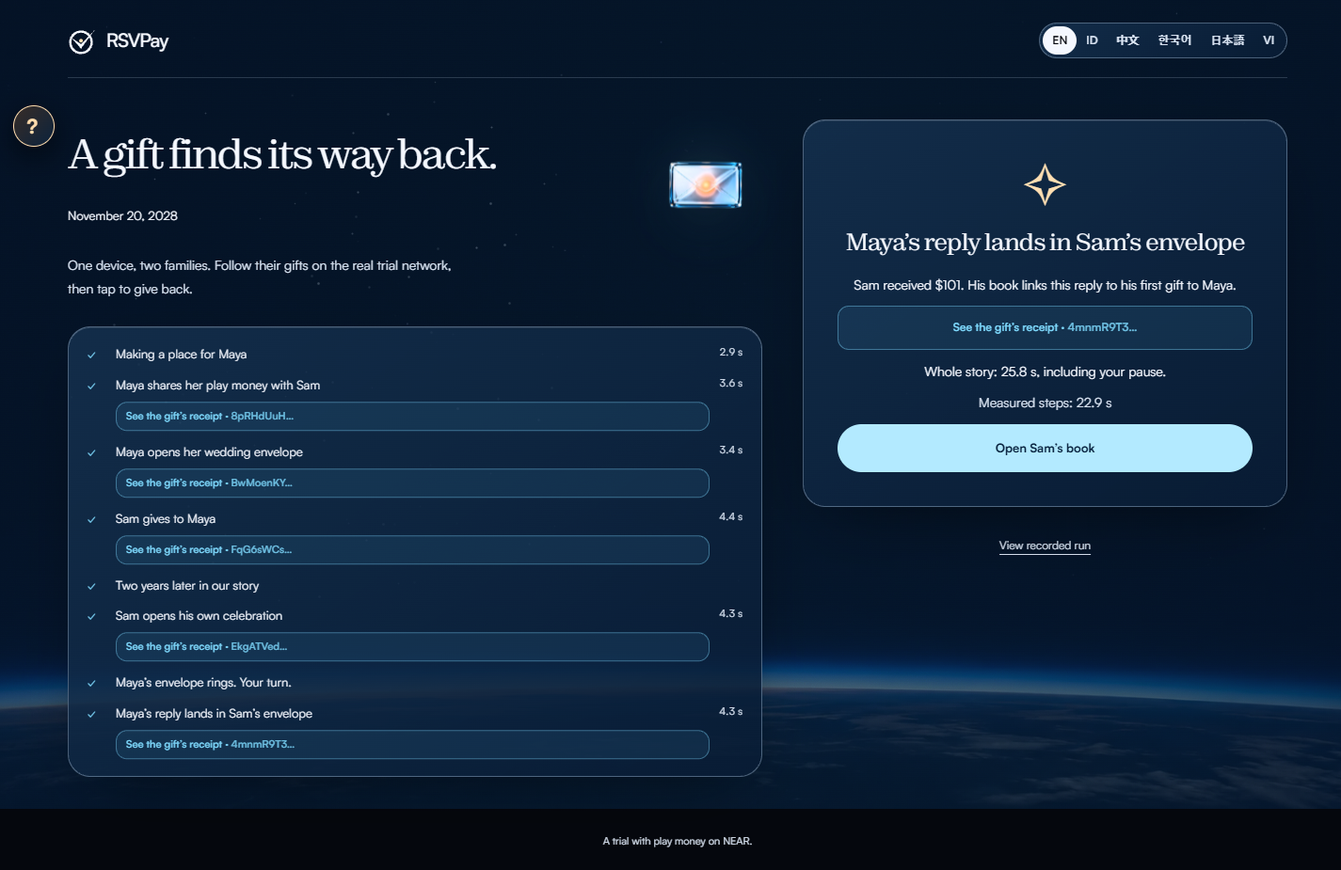
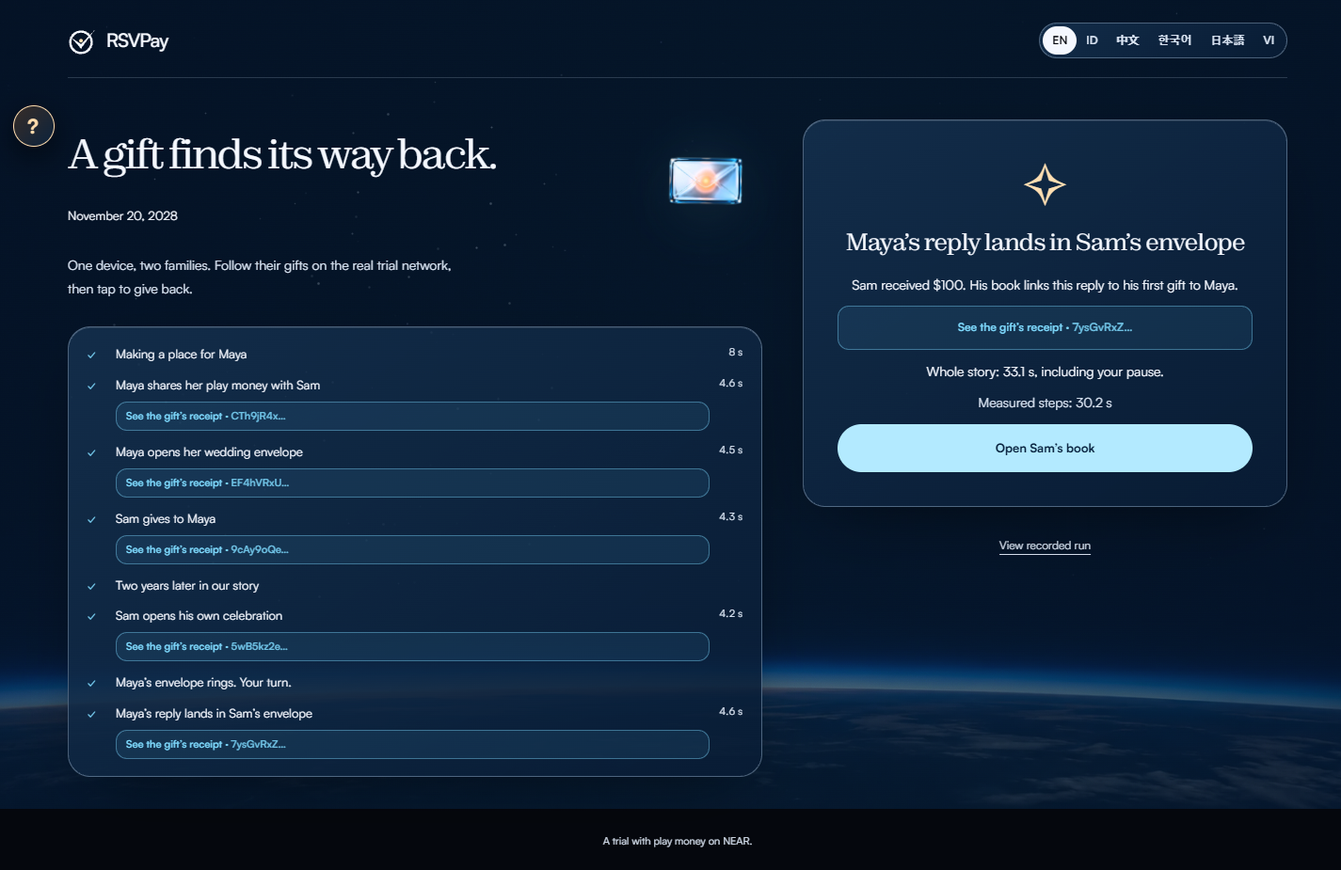
ITM-A4: kontrak pindah ke rsvpay-v2.testnet
Kontrak tanpa kunci tidak bisa ditambal, jadi perbaikan issue #7 dan #8 butuh akun baru. Alamat, hash, buku demo, dan dokumen ikut diperbarui. Dokumen T3 dan T4 mengikuti perilaku baru.

Bukti: hash 8cKSDEx2G7FqNL5xVspweV5fYC2LWtoeMdKEDngarduw sama dengan build lokal, kunci 0, 19 PASS siklus penuh, 14 serangan, cerita utuh 34,8 detik, aset 111 berkas, tamu 15,3 detik, batas dompet teruji.

diff --git a/frontend/src/chain/types.ts b/frontend/src/chain/types.ts
@@ -110,11 +110,11 @@ export const AMPLOP_ERRORS = {
   seedRange: 'seed_bps must be 0..=1000 (max 10%)',
   titleRequired: 'title required',
   notHolder: 'only the current holder',
-  midTransfer: 'amplop is mid-transfer',
+  midTransfer: 'mid-transfer',
   alreadyReplied: 'this gift was already replied to',
   sameAmplop: 'cannot reply into the same amplop',
   wrongTarget: 'reply must go to a hajatan held by the original giver',
   targetClosed: "the giver's hajatan is not accepting gifts",
-  replyStorage: 'seed plus deposit must cover storage of the reply',
+  replyStorage: 'deposit must cover storage of the reply',
   nothingFree: 'nothing to withdraw',
 } as const;

diff --git a/frontend/src/hero/chapters.copy.ts b/frontend/src/hero/chapters.copy.ts
@@ -15,9 +15,9 @@ export const CH_DATA = {
   years: ['2026', '2028', '2031'],
   words: ['amplop', '礼金', '축의금', 'ご祝儀', 'tiền mừng'],
   languages: ['English', 'Bahasa Indonesia', '中文', '한국어', '日本語', 'Tiếng Việt'],
-  figures: ['0', '13/13', '48', '10%'],
-  account: 'rsvpay.testnet',
-  hash: 'G2kEEJb7GzFdHD3JeiV5hKQycrRXotxZQnYQpgsv95UL',
+  figures: ['0', '14/14', '54', '10%'],
+  account: 'rsvpay-v2.testnet',
+  hash: '8cKSDEx2G7FqNL5xVspweV5fYC2LWtoeMdKEDngarduw',
   methods: ['view_access_key_list', 'view_account'],
   attacks: [
     "Host parks a guest's seed in a decoy mid-transfer",

diff --git a/frontend/src/hero/ch/shared.tsx b/frontend/src/hero/ch/shared.tsx
@@ -1,6 +1,6 @@
 
 export const asset = (name: string) => `${import.meta.env.BASE_URL}aset/v2/${name}.webp`;
-export const CONTRACT = 'https://testnet.nearblocks.io/address/rsvpay.testnet';
+export const CONTRACT = 'https://testnet.nearblocks.io/address/rsvpay-v2.testnet';
 // Bundle the real document so the evidence link also works on static hosting.
 export const THREAT = `${import.meta.env.BASE_URL}threat-model.md`;
 export const THREAT_DOWNLOAD = import.meta.env.VITE_THREAT_MODEL_URL ? undefined : 'THREAT-MODEL.md';

diff --git a/frontend/src/chain/mock.ts b/frontend/src/chain/mock.ts
@@ -136,7 +136,7 @@ export class MockAmplopClient implements AmplopClient {
     const dep = BigInt(a.depositYocto);
     const seed = BigInt(old.seed);
     const total = seed + dep;
-    if (total <= MOCK_ENTRY_COST) throw new Error(E.replyStorage);
+    if (dep < MOCK_ENTRY_COST || total <= MOCK_ENTRY_COST) throw new Error(E.replyStorage);
     this.pay(dep);
     r.balance -= seed;
     r.seedLocked -= seed;

diff --git a/frontend/src/chain/near.ts b/frontend/src/chain/near.ts
@@ -15,7 +15,7 @@ const HELPER = 'https://helper.nearprotocol.com/account';
 const PURSE = '/api/dana';
 // room for gas and storage on top of what a call sends
 const SPARE = 10n ** 23n;
-export const DEFAULT_CONTRACT = 'rsvpay.testnet';
+export const DEFAULT_CONTRACT = 'rsvpay-v2.testnet';
 const GAS = teraToGas('100');
 const KEYS = 'amplop.kunci';
 const ACTIVE = 'amplop.akun';

diff --git a/README.md b/README.md
@@ -2,9 +2,9 @@
 
 **A wedding gift that remembers, and gives back.**
 
-RSVP is the reply to a wedding invitation; here the reply is a gift, years later. The project began as *Amplop Balas*, Indonesian for "reply envelope". The contract's internal crate keeps that name; the deployed account is `rsvpay.testnet`.
+RSVP is the reply to a wedding invitation; here the reply is a gift, years later. The project began as *Amplop Balas*, Indonesian for "reply envelope". The contract's internal crate keeps that name; the deployed account is `rsvpay-v2.testnet`.
 
-[![License: MIT](https://img.shields.io/badge/license-MIT-blue)](LICENSE) [![Network](https://img.shields.io/badge/NEAR-testnet-00BFFF)](https://testnet.nearblocks.io/address/rsvpay.testnet)
+[![License: MIT](https://img.shields.io/badge/license-MIT-blue)](LICENSE) [![Network](https://img.shields.io/badge/NEAR-testnet-00BFFF)](https://testnet.nearblocks.io/address/rsvpay-v2.testnet)
 
 At Indonesian weddings, guests give money in envelopes (*amplop*) and families keep a notebook of who gave what, so they can return the favour at the guest's own celebration years later. The notebook gets lost. RSVPay makes that notebook an NFT that holds its own money and remembers.
 
@@ -15,10 +15,10 @@ Also by the same builder: **Mintless** (*Kota Tanpa Cetak Uang*, track Games Wit
 | | |
 |---|---|
 | Live demo | https://rsvpay.vercel.app |
-| Contract (testnet) | [`rsvpay.testnet`](https://testnet.nearblocks.io/address/rsvpay.testnet), zero access keys |
+| Contract (testnet) | [`rsvpay-v2.testnet`](https://testnet.nearblocks.io/address/rsvpay-v2.testnet), zero access keys |
 | Standard | NEP-171, NEP-177, NEP-181 (`near-sdk` 5.30.0) |
-| Code on chain | `G2kEEJb7GzFdHD3JeiV5hKQycrRXotxZQnYQpgsv95UL`, equal to a release build of this source on the deploying machine |
-| Tests | 48 Rust, 68 web, 13 live attacks. What each one proves is in [CLAIMS.md](CLAIMS.md) |
+| Code on chain | `8cKSDEx2G7FqNL5xVspweV5fYC2LWtoeMdKEDngarduw`, equal to a release build of this source on the deploying machine |
+| Tests | 54 Rust, 68 web, 14 live attacks. What each one proves is in [CLAIMS.md](CLAIMS.md) |
 | Docs | [Architecture](docs/ARCHITECTURE.md) · [Threat model](docs/THREAT-MODEL.md) · [Design](docs/DESIGN.md) · [Roadmap](docs/ROADMAP.md) · [Claims](CLAIMS.md) · [Changelog](CHANGELOG.md) · [Evidence](docs/evidence/) |
 
 ## What it does
@@ -45,7 +45,7 @@ Open https://rsvpay.vercel.app/#/coba, or click **Try the whole story** on the l
 
 The browser requests one throwaway account for Maya from a small testnet purse (`frontend/api/dana.ts`), or from NEAR's public testnet helper if the purse is empty. Maya funds Sam's sub-account from her own test balance. It then opens Maya's wedding, sends Sam's gift, advances the story date by two years and opens Sam's celebration. The chain clock is unchanged. The envelope stops at the ring until you click **Give back to Sam**.
 
-Each completed transaction has a receipt link and a measured duration. The end shows elapsed time including your pause, plus the sum of measured steps. The target is 60 seconds; nine live checks took between 26.9 s and 60.9 s ([runs](docs/evidence/coba-e2e-runs.txt)) including the pause, the slowest just over target, see [coba-e2e-report.txt](docs/evidence/coba-e2e-report.txt). Network latency and helper availability affect it.
+Each completed transaction has a receipt link and a measured duration. The end shows elapsed time including your pause, plus the sum of measured steps. The target is 60 seconds; ten live checks took between 26.9 s and 60.9 s ([runs](docs/evidence/coba-e2e-runs.txt)) including the pause, the slowest just over target, see [coba-e2e-report.txt](docs/evidence/coba-e2e-report.txt). Network latency and helper availability affect it.
 
 If the helper refuses the request, the page says so and offers **View recorded run**. This is explicitly a past run from 3 November 2026, with the four hashes in [measured-testnet.txt](docs/evidence/measured-testnet.txt). That evidence contains opening, giving, replying and withdrawing; it does not contain Sam's opening receipt.
 
@@ -54,12 +54,12 @@ To watch instead of waiting on the network, open **How it works** on any inner p
 To inspect the fixed deployment's keys:
 
 ```bash
-curl -s https://test.rpc.fastnear.com -H 'Content-Type: application/json' -d '{"jsonrpc":"2.0","id":1,"method":"query","params":{"request_type":"view_access_key_list","finality":"final","account_id":"rsvpay.testnet"}}'
+curl -s https://test.rpc.fastnear.com -H 'Content-Type: application/json' -d '{"jsonrpc":"2.0","id":1,"method":"query","params":{"request_type":"view_access_key_list","finality":"final","account_id":"rsvpay-v2.testnet"}}'
 ```
 
 The read-only check on 5 November 2026 (Asia/Jakarta) returned `"keys":[]`.
 
-The app uses only the fixed testnet deployment `rsvpay.testnet` and offers English, Indonesian, Chinese, Korean, Japanese and Vietnamese. Amounts show in rupiah in Indonesian and in dollars elsewhere, at a demo rate of 1 NEAR = Rp500.000 = $500.
+The app uses only the fixed testnet deployment `rsvpay-v2.testnet` and offers English, Indonesian, Chinese, Korean, Japanese and Vietnamese. Amounts show in rupiah in Indonesian and in dollars elsewhere, at a demo rate of 1 NEAR = Rp500.000 = $500.
 
 | Do | See |
 |---|---|
@@ -113,7 +113,7 @@ Needs Node 22+ and, for the contract, Rust. On Windows set `AWS_LC_SYS_PREBUILT_
 ```bash
 cd contracts && cargo test
 ```
-See `test result: ok. 48 passed`.
+See `test result: ok. 54 passed`.
 
 ```bash
 cd frontend && npm ci && npm test
@@ -135,7 +135,7 @@ See `1 passed`: the web client opens, gives, rings, replies and withdraws on tes
 ```bash
 cd scripts && npm ci && node attacks.mjs
 ```
-See 13 `PASS` lines, one per attack, against the deployed contract. Report: [`docs/evidence/attacks-report.txt`](docs/evidence/attacks-report.txt).
+See 14 `PASS` lines, one per attack, against the deployed contract. Report: [`docs/evidence/attacks-report.txt`](docs/evidence/attacks-report.txt).
 
 ```bash
 cd frontend && node e2e/alur.e2e.mjs
@@ -156,7 +156,7 @@ The money lives inside the contract, booked per token id, not in anyone's accoun
 
 - `withdraw` and `reciprocate` call `require_holder`, which reads the owner from NEP-171 state at call time. No owner is stored anywhere else.
 - On `nft_transfer` the balance, the locked seeds and every entry stay with the token id, so they move with it automatically. The new holder inherits both the money and the promises. The old holder is refused from that block on.
-- During `nft_transfer_call` a lock blocks `withdraw` and `reciprocate`, so a buyer cannot drain the amplop inside `nft_on_transfer` while the sale can still revert. After 300 blocks the lock goes stale, so a receiver cannot freeze the amplop forever.
+- During `nft_transfer_call` a lock blocks `withdraw` and `reciprocate`, so a buyer cannot drain the amplop inside `nft_on_transfer` while the sale can still revert. The lock holds until the resolver runs. Only if a resolver ever failed would it let go, after about twelve days, so no amplop can freeze for good. Plain `nft_transfer` follows NEP-171 and is not stopped by the lock, so a seller should send only to a buyer they trust to settle.
 - A failed payout goes back into the amplop, not to the void.
 - The contract account has no access keys. There is no admin, no upgrade and no pause, for us or anyone.
 
@@ -170,7 +170,8 @@ The money lives inside the contract, booked per token id, not in anyone's accoun
 |---|---|---|
 | Seller keeps withdrawing after the sale | Holder read from NEP-171 at call time | `old_owner_cannot_withdraw_after_transfer`, live L9 |
 | Buyer drains the amplop inside `nft_on_transfer`, then the sale reverts | Lock set before the transfer | `withdraw_blocked_while_sale_settles` |
-| Receiver never resolves, freezing the amplop | Lock goes stale after 300 blocks | `stale_lock_releases_after_lock_max_blocks` |
+| Receiver delays the resolver to drain the amplop | Lock holds until the resolver runs | `lock_holds_past_any_delay_until_the_resolver_runs` |
+| A resolver fails and freezes the amplop | Lock lets go after 1,000,000 blocks | `a_lock_whose_resolver_never_ran_lets_go_after_the_long_bound` |
 | Host withdraws the guests' seeds | `withdraw` pays only `balance - seed_locked` | `withdraw_pays_only_free_money_and_never_touches_seeds`, live L10, L11 |
 | Host sends a seed to a friend | Target must be held by the original giver | `reply_cannot_be_redirected_to_someone_else`, live L6 |
 | Reply twice from one seed | Entry marked `replied` | `a_gift_can_be_replied_only_once`, live L8 |
@@ -196,9 +197,9 @@ Other measurements:
 | What | Result | When | Source |
 |---|---|---|---|
 | Whole cycle by the web client: open, give, ring, reply, withdraw | 31.7 s | 3 Nov 2026 | [`web-client-live.txt`](docs/evidence/web-client-live.txt) |
-| New guest gives, local build against the deployed contract, 360 px emulated touch screen, account made on the way | 10.7 s | 4 Nov 2026 | Step E4 in [`e2e-report.txt`](docs/evidence/e2e-report.txt) |
+| New guest gives on the live site, 360 px emulated touch screen, account made on the way | 15.3 s | 7 Nov 2026 | [`guest-check-report.txt`](docs/evidence/guest-check-report.txt) |
 | Storage a gift pays for its own entry | 0.0015 NEAR | 2 Nov 2026 | Step A02 in [`full-cycle-report.txt`](docs/evidence/full-cycle-report.txt) |
-| Live attacks refused | 13 of 13 | 7 Nov 2026 | [`attacks-report.txt`](docs/evidence/attacks-report.txt) |
+| Live attacks refused | 14 of 14 | 7 Nov 2026 | [`attacks-report.txt`](docs/evidence/attacks-report.txt) |
 
 ## What is not solved
 

diff --git a/CLAIMS.md b/CLAIMS.md
@@ -2,31 +2,31 @@
 
 Every claim this project makes, and where to check it. Checked on 5 November 2026 unless a row says otherwise. Where this file and the chain disagree, trust the chain.
 
-Contract: [`rsvpay.testnet`](https://testnet.nearblocks.io/address/rsvpay.testnet). Live site: https://rsvpay.vercel.app. The contract moved here on 7 November to close issue #1 (T18); reports dated earlier ran against the previous deployment, `amplop-c-mvznhnlx.testnet`, which differs by that one check.
+Contract: [`rsvpay-v2.testnet`](https://testnet.nearblocks.io/address/rsvpay-v2.testnet). Live site: https://rsvpay.vercel.app. The contract moved here on 7 November to close issues #1, #7 and #8 (T18 to T20). Reports dated earlier ran against `amplop-c-mvznhnlx.testnet`.
 
 ## On chain
 
 | Claim | Proof | Check it yourself |
 |---|---|---|
 | Nobody can change the rules. The contract account has zero access keys. | RPC answer on 5 November at block 276,347,018: 0 keys. Attack L1 in [`attacks-report.txt`](docs/evidence/attacks-report.txt). | The `curl` line in the [README](README.md), or **Ask the network now** on the site |
-| The code on chain is this source. | Hash `G2kEEJb7GzFdHD3JeiV5hKQycrRXotxZQnYQpgsv95UL` read from RPC on 7 November, equal to the local release build of the same day, sha256 `df51c34b…` (see Not claimed for the limit). | Query `view_account` for `rsvpay.testnet` over RPC |
-| 13 of 13 live attacks fail against the deployed contract. | [`attacks-report.txt`](docs/evidence/attacks-report.txt). Nine are refused calls; L1, L7 and L10 confirm the expected safe state. | `cd scripts && node attacks.mjs` |
+| The code on chain is this source. | Hash `8cKSDEx2G7FqNL5xVspweV5fYC2LWtoeMdKEDngarduw` read from RPC on 7 November, equal to the local release build of the same day, sha256 `710dfb1f…` (see Not claimed for the limit). | Query `view_account` for `rsvpay-v2.testnet` over RPC |
+| 14 of 14 live attacks fail against the deployed contract. | [`attacks-report.txt`](docs/evidence/attacks-report.txt). Ten are refused calls; L1, L7, L10 and L14 confirm the expected safe state. | `cd scripts && node attacks.mjs` |
 | The rights move with the NFT, and the old holder is locked out. | Steps A11 and A12 in [`full-cycle-report.txt`](docs/evidence/full-cycle-report.txt); test `old_owner_cannot_withdraw_after_transfer`; attack L9. | `cd contracts && cargo test` |
 | A kept share can only go to the guest who gave it. | Tests `withdraw_pays_only_free_money_and_never_touches_seeds`, `reply_cannot_be_redirected_to_someone_else`; attacks L6, L11. | same |
 | A gift can be replied to only once. | Test `a_gift_can_be_replied_only_once`; step A09; attack L8. | same |
 | A host keeps back at most 10%, set once. | Test `seed_above_ten_percent_rejected`; contract panic `seed_bps must be 0..=1000 (max 10%)`. | same |
 | No coin is lost if a payout fails or the NFT is sold in the middle of one. | Tests `failed_payout_refunds_into_the_amplop`, `sale_during_a_payout_in_flight_keeps_every_coin_with_the_token`. | same |
-| 48 contract tests pass. | Fresh `cargo test` on 7 November: 48 passed, 0 failed. CI runs the same command on Linux on every push to `master`. | `cd contracts && cargo test`. On Windows without NASM, set `AWS_LC_SYS_PREBUILT_NASM=1` first. |
+| 54 contract tests pass. | Fresh `cargo test` on 7 November: 54 passed, 0 failed. CI runs the same command on Linux on every push to `master`. | `cd contracts && cargo test`. On Windows without NASM, set `AWS_LC_SYS_PREBUILT_NASM=1` first. |
 
 ## On the site
 
 | Claim | Proof | Check it yourself |
 |---|---|---|
-| The whole story runs on real testnet from one button, with a receipt per transaction. | [`coba-e2e-report.txt`](docs/evidence/coba-e2e-report.txt): all checks on the last run, 7 November, 26.9 s. Accounts come from a small testnet purse. If the purse and the public helper both refuse, the page offers the labelled recording: [`coba-refused-report.txt`](docs/evidence/coba-refused-report.txt). | `cd frontend && node e2e/coba.e2e.mjs https://rsvpay.vercel.app` |
-| The story takes about a minute or less. | Between 26.9 s and 60.9 s over nine runs, target 60 s ([`coba-e2e-runs.txt`](docs/evidence/coba-e2e-runs.txt)). It depends on the public testnet. If the public helper refuses, the page says so and offers a run clearly labelled as a recording. | same |
-| A guest gives from a phone in 20 s or less, with nothing to install. | Step E4 in [`e2e-report.txt`](docs/evidence/e2e-report.txt): 10.7 s on a local build against the deployed contract, signed in the browser. | `cd frontend && node e2e/alur.e2e.mjs` |
+| The whole story runs on real testnet from one button, with a receipt per transaction. | [`coba-e2e-report.txt`](docs/evidence/coba-e2e-report.txt): all checks on the last run, 7 November, 34.8 s. Accounts come from a small testnet purse. If the purse and the public helper both refuse, the page offers the labelled recording: [`coba-refused-report.txt`](docs/evidence/coba-refused-report.txt). | `cd frontend && node e2e/coba.e2e.mjs https://rsvpay.vercel.app` |
+| The story takes about a minute or less. | Between 26.9 s and 60.9 s over ten runs, target 60 s ([`coba-e2e-runs.txt`](docs/evidence/coba-e2e-runs.txt)). It depends on the public testnet. If the public helper refuses, the page says so and offers a run clearly labelled as a recording. | same |
+| A guest gives from a phone in 20 s or less, with nothing to install. | [`guest-check-report.txt`](docs/evidence/guest-check-report.txt): 15.3 s on the live site at 360 px, emulated touch, new guest, signed in the browser. | `cd frontend && node e2e/alur.e2e.mjs` |
 | Guest pages fit a 360 px screen. | Step E3: 0 px overflow. | same |
-| Every file of the site answers and every image decodes. | [`asset-check-report.txt`](docs/evidence/asset-check-report.txt): 207 files, five pages, two screen sizes. | `cd frontend && node e2e/aset.e2e.mjs https://rsvpay.vercel.app` |
+| Every file of the site answers and every image decodes. | [`asset-check-report.txt`](docs/evidence/asset-check-report.txt): 111 files, five pages, two screen sizes. | `cd frontend && node e2e/aset.e2e.mjs https://rsvpay.vercel.app` |
 | A reply shows on both sides: the gift says it was given back, and the receiver's book shows the reply as its own card. | Fields `reply_to` and `replied` from the contract, shown in `frontend/src/pages/Buku.tsx`; screenshot [`coba-book-1366.png`](docs/evidence/coba-book-1366.png). | Finish the story at `#/coba` |
 | The landing stays whole after leaving it and coming back. | [`return-check-report.txt`](docs/evidence/return-check-report.txt): back by logo and by browser button, from the very bottom of the page, then 18 quick round trips. | `cd frontend && node e2e/balik.e2e.mjs https://rsvpay.vercel.app` |
 | Each inner page says who you are and what happens next, floating over the page without moving it. | [`demo-check-report.txt`](docs/evidence/demo-check-report.txt): layout identical before and after opening the guide, in all six languages. | `cd frontend && node e2e/demo.e2e.mjs https://rsvpay.vercel.app` |
@@ -40,6 +40,6 @@ Contract: [`rsvpay.testnet`](https://testnet.nearblocks.io/address/rsvpay.testne
 - **Users.** No independent users yet.
 - **A clean last browser run.** The last full run passed 13 of 14 steps. Step E12 failed because a public RPC answered 429, which shows up as a browser console error.
 - **Complete history.** The public indexer can be empty for this contract; the page falls back to receipts and says which source it used.
-- **A reproducible build on any machine.** The hash on chain equals a release build on the Windows machine that deployed it, with Rust 1.99.1 pinned. CI builds the same source on Linux and prints a different hash, `be7042f1…`, so a stranger cannot yet reproduce the code hash byte for byte.
+- **A reproducible build on any machine.** The hash on chain equals a release build on the Windows machine that deployed it, with Rust 1.99.1 pinned. CI builds the same source on Linux and prints a different hash, so a stranger cannot yet reproduce the code hash byte for byte.
 - **Native-speaker translations.** They were written with AI help and checked by a second AI.
 - **Smoothness everywhere.** It was measured on a laptop with a GPU before the last rebuild of the five envelopes and the footer, and never on a cheap phone.

diff --git a/docs/THREAT-MODEL.md b/docs/THREAT-MODEL.md
@@ -11,8 +11,8 @@ Written from the point of view of someone trying to keep or steal money.
 |---|---|---|---|
 | T1 | Seller keeps withdrawing after the sale | Holder read from NEP-171 at call time | Unit `old_owner_cannot_withdraw_after_transfer`; Live L9 |
 | T2 | Seller replies from the sold amplop | Same check on `reciprocate` | Unit `old_owner_cannot_reciprocate_after_transfer` |
-| T3 | Buyer drains inside `nft_on_transfer`, then the sale reverts | Lock set before the transfer, active for 300 blocks | Unit `withdraw_blocked_while_sale_settles`, `reciprocate_blocked_while_sale_settles` |
-| T4 | Receiver never resolves, freezing the amplop | Lock goes stale after 300 blocks | Unit `stale_lock_releases_after_lock_max_blocks` |
+| T3 | Buyer drains inside `nft_on_transfer`, then the sale reverts | Lock set before the transfer, held until the resolver runs | Unit `withdraw_blocked_while_sale_settles`, `reciprocate_blocked_while_sale_settles`, `lock_holds_past_any_delay_until_the_resolver_runs` |
+| T4 | A resolver fails and freezes the amplop for good | Lock lets go after 1,000,000 blocks, about twelve days, far past what yields chained within one transaction's gas could stretch. The resolver has a fixed 5 TGas; the refused transfer settles on it live (L14) | Unit `a_lock_whose_resolver_never_ran_lets_go_after_the_long_bound`, attack L14 |
 | T5 | Reverted sale leaves money or rights behind | Resolver returns the NFT and clears the lock | Unit `sale_reverted_by_receiver_returns_amplop_and_unlocks` |
 | T6 | Host withdraws the guests' seeds | `withdraw` pays only `balance - seed_locked` | Unit `withdraw_pays_only_free_money_and_never_touches_seeds`; Live L10, L11 |
 | T7 | Host sends a seed to a friend instead of the guest | Target must be held by the original giver | Unit `reply_cannot_be_redirected_to_someone_else`; Live L6 |
@@ -27,6 +27,8 @@ Written from the point of view of someone trying to keep or steal money.
 | T16 | Gifts into a closed or missing amplop | Refused | Unit `closed_hajatan_refuses_gifts`, `gift_to_a_missing_amplop_rejected`; Live L12 |
 | T17 | The developer changes the rules later | Zero access keys on the contract account | Live L1 |
 | T18 | A host parks a guest's seed in a decoy amplop while `nft_transfer_call` shows the guest as owner, takes the decoy back, and withdraws. Found in team review | Refused: `reciprocate` also checks the lock on the target | Unit `audit_host_redirects_guest_seed_through_reverted_transfer_call` |
+| T19 | A long reply message eats the guest's seed as storage | The caller's deposit pays the storage, the seed reaches the guest whole | Unit `audit_long_reply_message_cannot_eat_the_seed`, `reply_delivers_the_whole_seed_when_the_caller_pays_the_storage` |
+| T20 | The owner on paper closes the celebration, then refuses the transfer | `set_open` respects the lock | Unit `audit_paper_owner_cannot_close_hajatan_mid_transfer` |
 
 `#[private]` runs in the wasm entry point, so T10 and T11 can only be proven on chain, not in a unit test.
 

diff --git a/CHANGELOG.md b/CHANGELOG.md
@@ -13,8 +13,10 @@ What changed, by day. The project started on 3 November 2026. Commit messages ar
 - The toolchain is pinned and CI prints the wasm hash.
 
 ### Security
+- The transfer lock now holds until the resolver runs. The 300-block expiry is gone; a bound of 1,000,000 blocks remains only so a failed resolver cannot freeze an amplop for good (issue #7).
+- The caller pays a reply's storage, so a long message can no longer eat a guest's seed, and `set_open` respects the lock (issue #8).
 - `reciprocate` now also refuses a target amplop that is mid-transfer. Before this, a host could park a guest's seed in a decoy that only looked like the guest's during `nft_transfer_call`, take the decoy back, and withdraw the seed. Reported in issue #1 (T18).
-- The contract moved to `rsvpay.testnet`, because a keyless contract cannot be patched. The demo book is now #3.
+- The contract moved to `rsvpay-v2.testnet`, because a keyless contract cannot be patched. The demo book is now #3.
 
 ## 2026-11-06
 

diff --git a/SECURITY.md b/SECURITY.md
@@ -21,3 +21,7 @@ We aim to answer within 72 hours during NEAR HACKATHON (until 15 November 2026) 
 ## Testnet purse
 
 `frontend/api/dana.ts` holds one testnet key in a Vercel secret. It guards play money only. It can create sub-accounts of itself and top them up. Anyone can call it, so it limits itself: six new accounts per address per hour and one top-up per account, remembered as small marker sub-accounts that hold a salted hash. The worst case is an empty test purse, after which the site falls back to the public helper. `GET /api/dana` shows what is left.
+
+## Not tested live
+
+A receiver holding `nft_on_transfer` for more than 300 blocks has only been tested in unit tests, not on chain. The lock no longer depends on that window.

diff --git a/contracts/README.md b/contracts/README.md
@@ -5,7 +5,7 @@ Wedding-gift NFT that holds its own money, remembers who gave, and replies when 
 ```
 rustup target add wasm32-unknown-unknown
 set AWS_LC_SYS_PREBUILT_NASM=1        # Windows only (avoids needing NASM)
-cargo test                            # 48 unit tests
+cargo test                            # 54 unit tests
 cargo build --target wasm32-unknown-unknown --release   # .cargo/config.toml adds --cfg near
 ```
 Without `--cfg near` every on-chain panic loses its message (`WasmTrap(Unreachable)`). On-chain cycle: `../scripts/spk-a1.mjs` (needs `npm ci` in `../scripts`). Design: `../docs/ARCHITECTURE.md`.

diff --git a/docs/ARCHITECTURE.md b/docs/ARCHITECTURE.md
@@ -55,7 +55,7 @@ Invariants, enforced by the tests in `contracts/src/tests.rs`:
 3. Only the current holder can withdraw or reply.
 4. `withdraw` never touches seeds.
 5. One gift can be replied to once, and only into a hajatan held by its original giver.
-6. A sale in progress (`nft_transfer_call`) blocks `withdraw` and `reciprocate`.
+6. A sale in progress (`nft_transfer_call`) blocks `withdraw`, `reciprocate` and `set_open` until the resolver runs.
 
 ## Frontend
 
